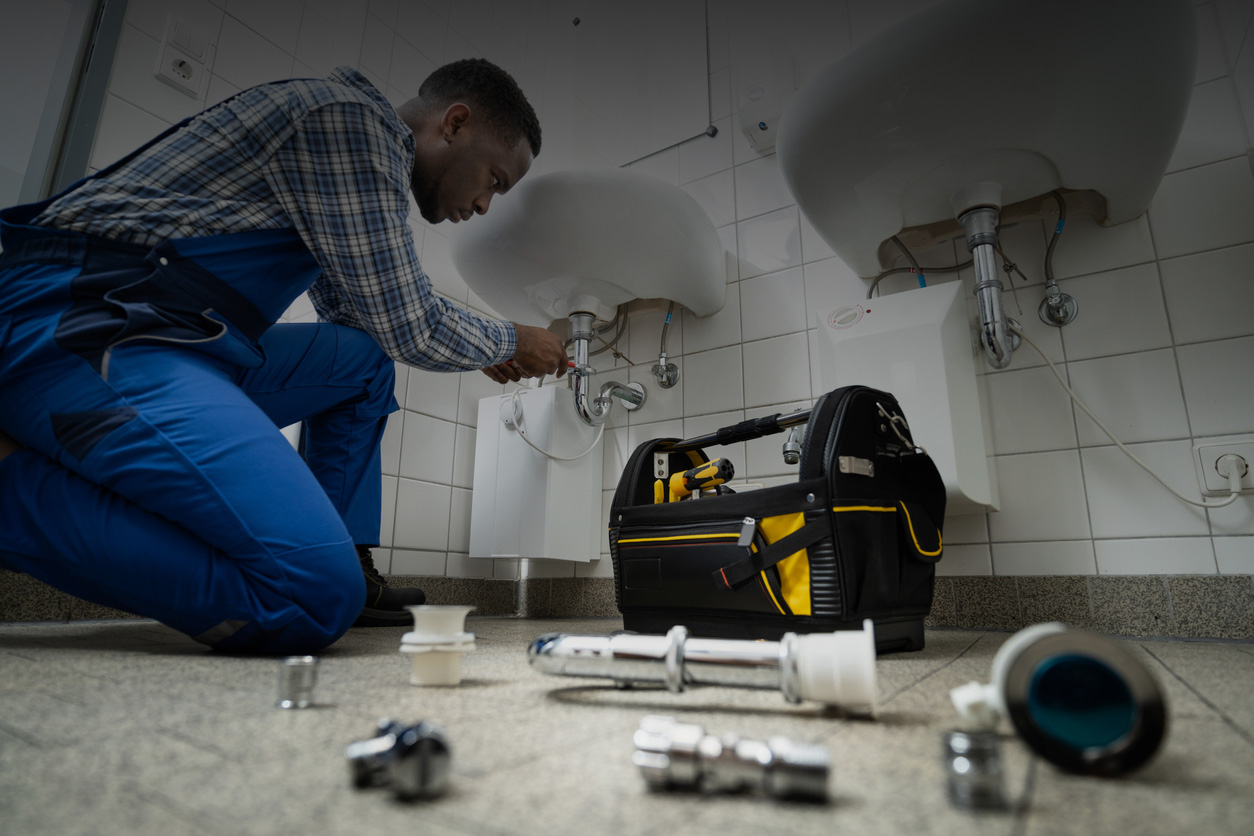
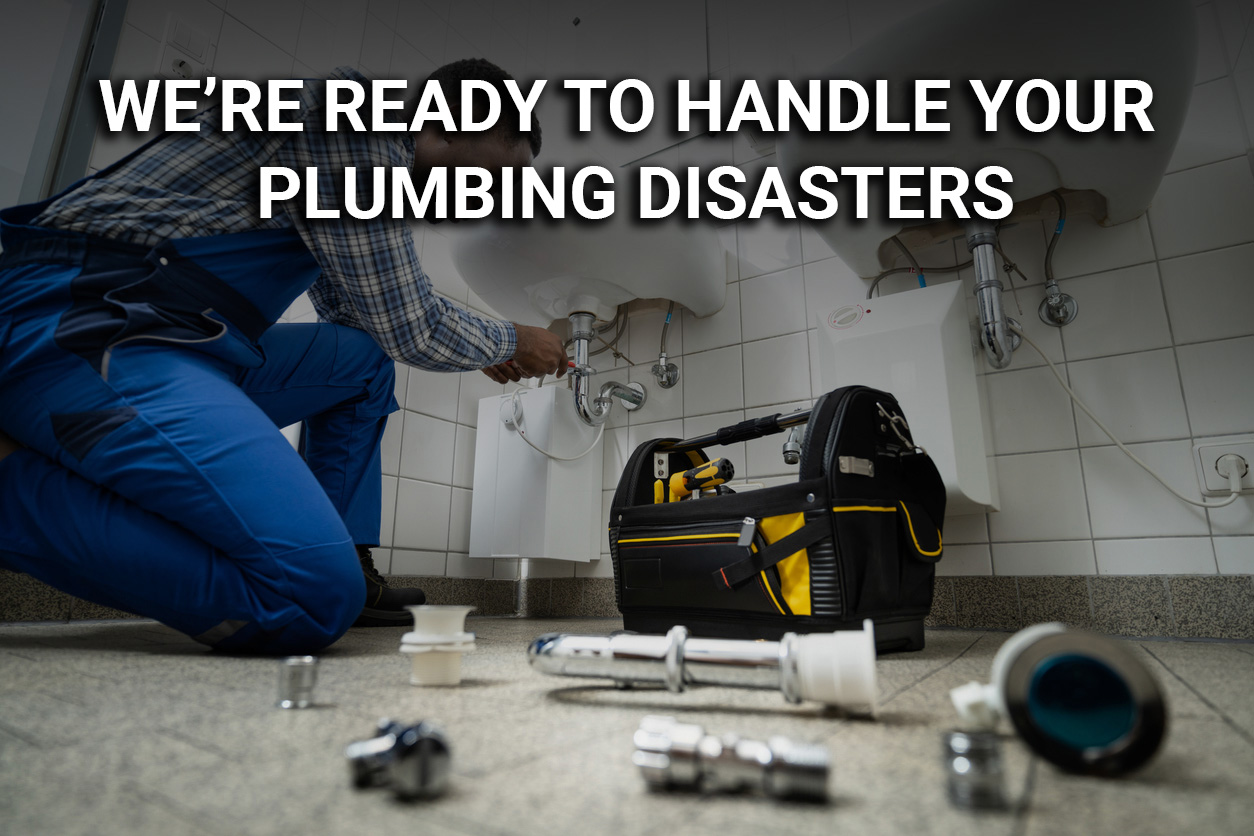
Fixed positioning issues and proofed code

Changed region(s): [[0.0622, 0.0933, 0.933, 0.2799]]

diff --git a/css/back.css b/css/back.css
@@ -98,25 +98,6 @@ main {
     gap: 2rem;
 }
 
-article h2 {
-    font-family: roboto;
-    font-weight: 800;
-    font-size: 4.5em;
-    color: whitesmoke;
-    text-shadow: 2px 2px 10px black;
-    z-index: 2;
-    position: absolute;
-    top: 4vw;
-    left: 1vw;
-    text-align: center;
-}
-
-article h2.about {
-    font-size: 3.9em;
-    bottom: 40vw;
-    left: 1vw;
-}
-
 article h1 {
     font-size: 2.5em;
     color: navy;
@@ -338,10 +319,9 @@ iframe {
         display: block;
     }
 
-    article h2 {
-        font-size: 2.6em;
-        bottom: 157vw;
-        left: 10.5vw;
+    .elements {
+        padding-left: 37vw;
+        margin-top: -14vw;
     }
 
     .testimonials {
@@ -349,13 +329,12 @@ iframe {
       }
     
     iframe {
-        width: 100%;
-        height: 250px;
-        margin-bottom: 20px;
-        position: relative;
-        left: 0;
+        width: 0%;
     }
-}
+
+    footer {
+        margin-top: 1em;
+    }
 
 @media screen and (max-width: 768px) {
 
@@ -387,18 +366,6 @@ iframe {
   
    .blog img {
       width: 100%;
-    }
-
-    article h2 {
-        font-size: 1.5em;
-        bottom: 280vw;
-        left: 13.5vw;
-    }
-
-    article h2.about {
-        font-size: 2em;
-        bottom: 250vw;
-        line-height: 2em;
     }
   
     .testimonials {

diff --git a/css/main.css b/css/main.css
@@ -97,18 +97,6 @@ main {
     gap: 2rem;
 }
 
-article h2 {
-    font-family: roboto;
-    font-weight: 800;
-    font-size: 4.5em;
-    color: whitesmoke;
-    text-shadow: 2px 2px 10px black;
-    z-index: 2;
-    position: absolute;
-    bottom: 23vw;
-    left: 4.5vw;
-}
-
 article img {
     width: 100%;
     height: auto;
@@ -332,10 +320,9 @@ iframe {
         display: block;
     }
 
-    article h2 {
-        font-size: 2.6em;
-        bottom: 157vw;
-        left: 10.5vw;
+    .elements {
+        padding-left: 37vw;
+        margin-top: -14vw;
     }
 
     .testimonials {
@@ -343,13 +330,13 @@ iframe {
       }
     
     iframe {
-        width: 100%;
-        height: 250px;
-        margin-bottom: 20px;
-        position: relative;
-        left: 0;
+        width: 0%;
     }
-}
+
+    footer {
+      margin-top: 1em;
+    }
+  }
 
 @media screen and (max-width: 768px) {
 
@@ -382,12 +369,6 @@ iframe {
    .blog img {
       width: 100%;
     }
-
-    article h2 {
-        font-size: 1.5em;
-        bottom: 280vw;
-        left: 13.5vw;
-    }
   
     .testimonials {
       font-size: 14px;
@@ -406,4 +387,3 @@ iframe {
       margin-top: 1em;
     }
   }
-  

diff --git a/about.html b/about.html
@@ -34,7 +34,6 @@
     <main class="homepage">
 
         <article class="blog">
-            <h2 class="about">Servicing the Greater Cincinnati and Northern Kentucky area for over 20 years!</h2>
             <img src="images/van.jpg" alt="Hello Professor Anderson, this is a terrible, awful picture of his van but it's the one he gave me. I promise there will be a better picture of the van when the final project is turned in.">
             <p>Welcome to DTK Solutions, where quality service and customer 
                 satisfaction are our top priorities. With over two decades 

diff --git a/index.html b/index.html
@@ -34,7 +34,6 @@
     <main class="homepage">
 
         <article class="blog">
-            <h2>Why choose DTK Solutions?</h2>
             <img src="images/work.jpg" alt="Service Specialists">
             <p>At DTK Solutions, quality isn't just a buzzword – it's our guiding principle. 
                 Our team of skilled professionals specializes in a wide range of services 

diff --git a/turns.html b/turns.html
@@ -34,7 +34,6 @@
     <main class="homepage">
 
         <article class="blog">
-            <h2>Streamline Your Apartment Turns with Our Expert Solutions</h2>
             <img src="images/turns.jpg" alt="Apartment turn">
             <p>Facing challenges with apartment turnovers? Take a breath. 
                 At DTK Solutions, we specialize in transforming apartment 

diff --git a/plumbing.html b/plumbing.html
@@ -34,7 +34,6 @@
     <main class="homepage">
 
         <article class="blog">
-            <h2>We're ready to handle your plumbing disasters</h2>
             <img src="images/plumbing.jpg" alt="Plumber">
             <p>Facing a plumbing crisis? Don't fret. At DTK Solutions, 
                 we specialize in turning chaos into calm. Our expert team is 

diff --git a/hvac.html b/hvac.html
@@ -34,7 +34,6 @@
     <main class="homepage">
 
         <article class="blog">
-            <h2>Expert Heating and A/C Repair</h2>
             <img src="images/hvac.jpg" alt="HVAC repair">
             <p>Experiencing HVAC troubles? Take a deep breath. At DTK Solutions, we 
                 specialize in transforming HVAC emergencies into manageable 
